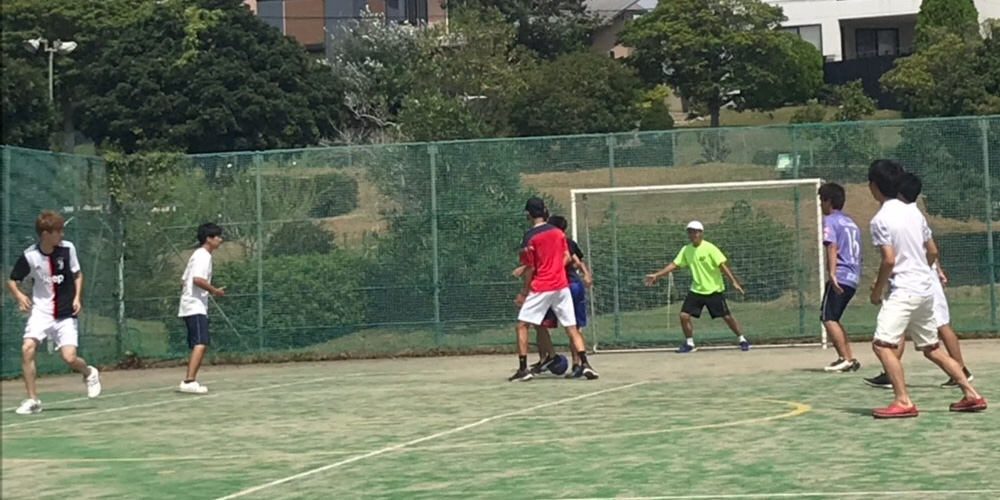
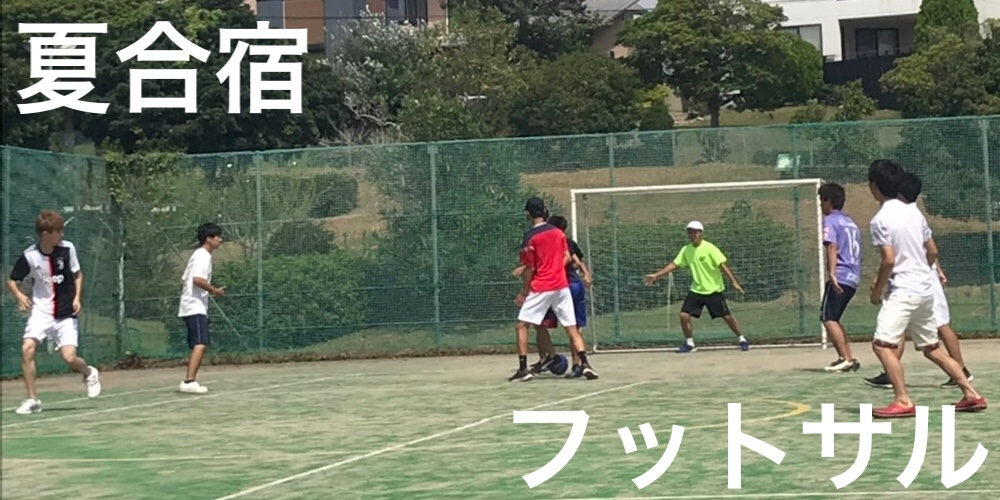
Modified some files.

diff --git a/CSS/style.css b/CSS/style.css
@@ -55,15 +55,101 @@ header {
     font-weight: bolder;
     letter-spacing: 5px;
 }
+/*INTRODUCTION----------------------------------------*/
+#introduction {
+    background-color: #eaf6fd;
+}
+/*INTRODUCTION-HEADER----------------------------------------*/
+.introduction-header img {
+    margin: 15px 0;
+    background-size: cover;
+    border-radius: 10px;
+}
+/*INTRODUCTION-OL----------------------------------------*/
+.introduction-ol {
+    background-image: url(../images/フェンス.jpg);
+    background-size: cover;
+    background-repeat: no-repeat;
+    border-radius: 10px;
+    padding: 20px 0 1px 0;
+    margin-bottom: 15px;
+}
+.introduction-li {
+    display: flex;
+    margin: 30px 100px;
+}
+.introduction-li p {
+    background-color: #00acee;
+    color: #fff;
+    width: 100px;
+    height: 100px;
+    border-radius: 50%;
+    text-align: center;
+    font-size: 50px;
+    padding-top: 10px;
+}
+.introduction-li span {
+    color: red;
+    font-size: 30px;
+    margin-top: 5px;
+    margin-left: 30px;
+    text-shadow: 0 2px white, 2px 2px white, 2px 0 white, 2px -2px white,
+    0 -2px white, -2px -2px white, -2px 0 white, -2px 2px white;
+}
+@media (max-width: 991px) {
+    .introduction-li {
+        margin: 5px;
+    }
+    .introduction-li p {
+        width: 50px;
+        height: 50px;
+        font-size: 25px;
+        padding-top: 5px;
+    }
+    .introduction-li span {
+        font-size: 13px;
+        margin-left: 5px;
+        text-shadow: 0 1px white, 1px 1px white, 1px 0 white, 1px -1px white,
+        0 -1px white, -1px -1px white, -1px 0 white, -1px 1px white;    
+    }    
+}
+/*CAMP----------------------------------------*/
+.camp {
+    display: flex;
+    margin-bottom: 50px;
+}
+.camp img {
+    width: 50%;
+    padding: 0 10px;
+}
+@media (max-width: 991px) {
+    .camp {
+        display: block;
+        margin-bottom: 35px;
+    }
+    .camp img {
+        width: 100%;
+        padding: 0px;
+        margin-bottom: 15px;
+    }    
+}
+/*FOOTER----------------------------------------*/
+footer {
+    background-color: #432;
+    text-align: center;
+    padding: 25px 0 15px 0;
+}
+footer p {
+    color: #fff;
+    font-size: 0.875rem;
+}
 /*EVENT----------------------------------------*/
 #event {
     background-image: url(../images/芝生.jpg);
 }
 /*EVENT-HEADER----------------------------------------*/
-.event-header {
+.event-header img {
     margin-top: 15px;
-}
-.LAVATTZ {
     background-size: cover;
     border-radius: 10px;
 }
@@ -120,19 +206,9 @@ header {
         padding: 0 0 15px 0;
     }
 }
-/*FOOTER----------------------------------------*/
-footer {
-    background-color: #432;
-    text-align: center;
-    padding: 25px 0 15px 0;
-}
-footer p {
-    color: #fff;
-    font-size: 0.875rem;
-}
 /*CONTACT----------------------------------------*/
 #contact {
-    background-color: #ffe0b6;
+    background-color: #e2eba3;
 }
 /*FORM----------------------------------------*/
 .form {
@@ -175,7 +251,7 @@ input[type="submit"] {
     justify-content: space-between;
 }
 .location-info h3 {
-    border-bottom: 2px solid blue;
+    border-bottom: 2px solid #00acee;
 }
 .location-info {
     width: 30%;
@@ -212,7 +288,7 @@ iframe {
     text-align: center;
 }
 .twitter h2 {
-    border-bottom: 2px solid blue;
+    border-bottom: 2px solid #00acee;
 }
 @media (max-width: 991px) {
     .twitter {
@@ -220,6 +296,6 @@ iframe {
         text-align: center;
     }
     .twitter h2 {
-        border-bottom: 2px solid blue;
+        border-bottom: 2px solid #00acee;
     }    
 }

diff --git a/introduction.html b/introduction.html
@@ -31,6 +31,53 @@
             </div>
         </nav>
     </header>
+    <div class="introduction-header">
+        <img src="images/特徴.png" alt="特徴">
+    </div>
+    <div class="introduction-ol">
+        <div class="introduction-li">
+            <p>1</p>
+            <span>初心者と経験者の割合が５：５！<br>
+                (元サッカー部・元野球部の先輩も！)
+            </span>
+        </div>
+        <div class="introduction-li">
+            <p>2</p>
+            <span>お酒はほどほどなサークル<br>
+                (お酒好きは合わないかも！)
+            </span>
+        </div>
+        <div class="introduction-li">
+            <p>3</p>
+            <span>会費が他サークルに比べて安い！<br>
+                (１学期３０００円です)
+            </span>
+        </div>
+        <div class="introduction-li">
+            <p>4</p>
+            <span>↓ 夏合宿・春合宿では、　　　 ↓<br>
+                ↓ テニス以外のことも・・・笑 ↓
+            </span>
+        </div>
+    </div>
+    <div class="camp">
+        <img src="images/フットサル.jpeg" alt="フットサル">
+        <img src="images/卓球.jpeg" alt="卓球">
+    </div>
+    <div class="menu">
+        <div class="row justify-content-center">
+            <div class="col-lg-4">
+                <a href="event.html">年間イベント</a>
+            </div>
+            <p>　</p>
+            <div class="col-lg-4">
+                <a href="contact.html">コンタクト</a>
+            </div>
+        </div>
+    </div>
+    <footer class="row">
+        <p class="col"><small>&copy; 2020 SAKATA Atsuki</small></p>
+    </footer>
     <script src="https://code.jquery.com/jquery-3.4.1.slim.min.js" integrity="sha384-J6qa4849blE2+poT4WnyKhv5vZF5SrPo0iEjwBvKU7imGFAV0wwj1yYfoRSJoZ+n" crossorigin="anonymous"></script>
     <script src="https://cdn.jsdelivr.net/npm/popper.js@1.16.0/dist/umd/popper.min.js" integrity="sha384-Q6E9RHvbIyZFJoft+2mJbHaEWldlvI9IOYy5n3zV9zzTtmI3UksdQRVvoxMfooAo" crossorigin="anonymous"></script>
     <script src="https://stackpath.bootstrapcdn.com/bootstrap/4.4.1/js/bootstrap.min.js" integrity="sha384-wfSDF2E50Y2D1uUdj0O3uMBJnjuUD4Ih7YwaYd1iqfktj0Uod8GCExl3Og8ifwB6" crossorigin="anonymous"></script>

diff --git a/contact.html b/contact.html
@@ -50,9 +50,9 @@
     </div>        
     <section id="location">
         <div class="location-info">
-            <h3>練習時間</h3>
+            <h3>活動時間</h3>
             <p>毎週 月・金曜日 18:00〜21:00</p>
-            <h3>練習場所</h3>
+            <h3>活動場所</h3>
             <p>矢橋帰帆島 テニスコート<br>
                 〒525-0066 滋賀県草津市矢橋町2108</p>
         </div>

diff --git a/event.html b/event.html
@@ -32,7 +32,7 @@
         </nav>
     </header>
     <div class="event-header">
-        <img class="LAVATTZ" src="images/LAVATTZ.png" alt="LAVATTZ">
+        <img src="images/LAVATTZ.png" alt="LAVATTZ">
     </div>
     <div class="event-list row">
         <span class="col-sm-1">　</span>

diff --git a/CSS/test.css b/CSS/test.css
@@ -8,4 +8,4 @@ a {
 img {
     max-width: 100%;
 }
-/*CONTACT----------------------------------------*/
+/*TEST----------------------------------------*/
